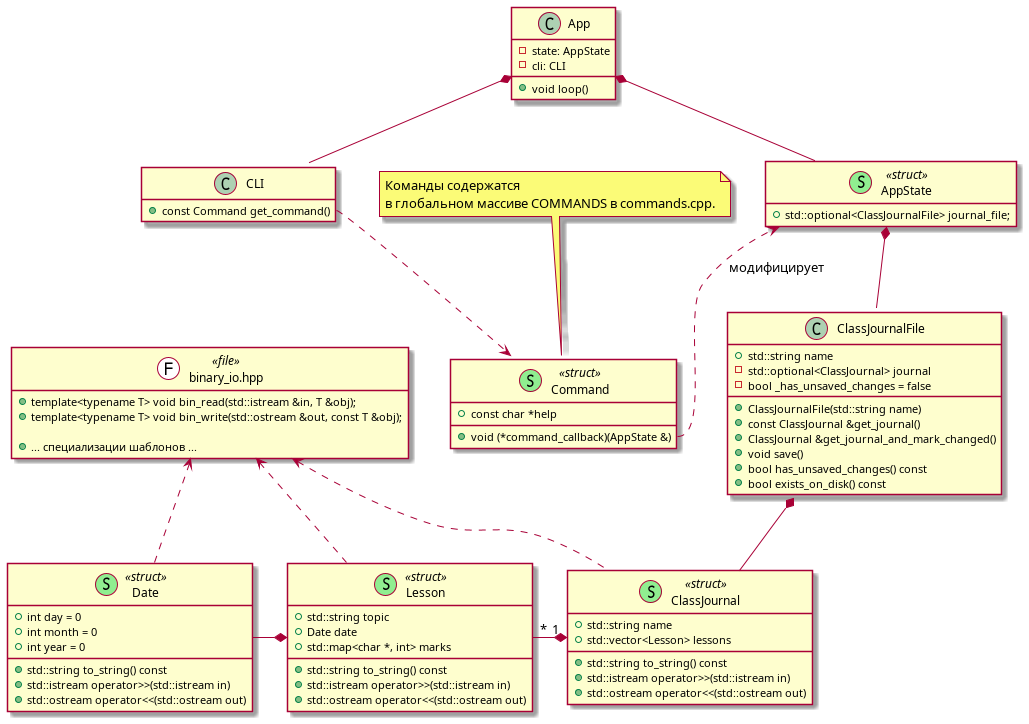
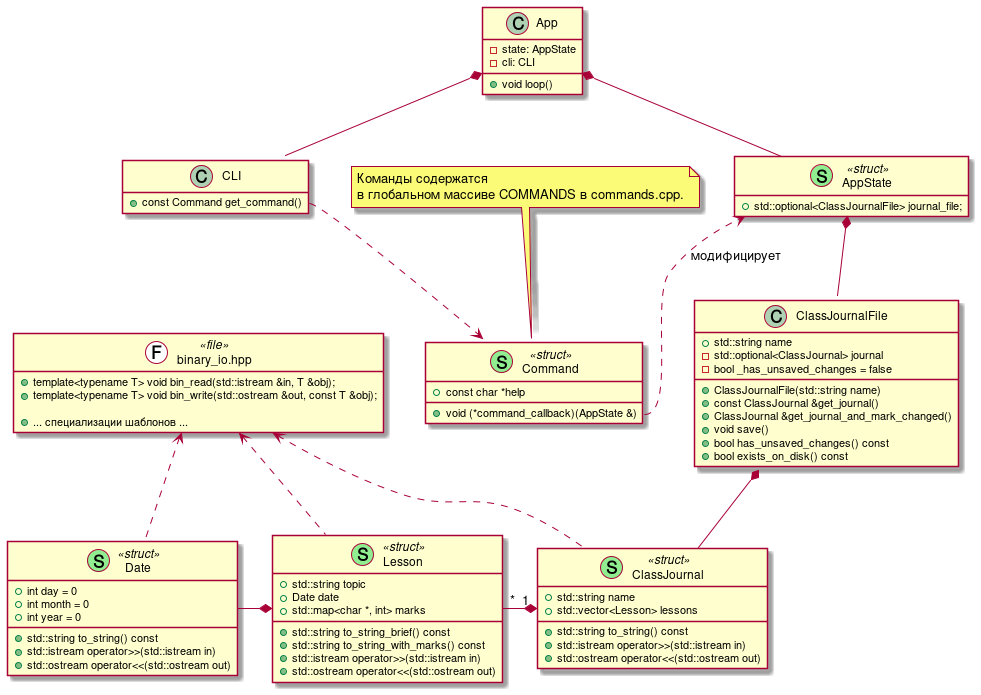
Очередной рывок реализации IOOverride/9

diff --git a/IOOverride/9/commands.cpp b/IOOverride/9/commands.cpp
@@ -7,6 +7,7 @@ using std::cin, std::cout, std::endl;
 using std::ifstream, std::ofstream;
 using std::string;
 using std::optional, std::make_optional;
+using std::out_of_range;
 
 /* #region Forward declarations */
 static string ask_filename();
@@ -14,6 +15,12 @@ static bool check_file_saved(optional<ClassJournalFile> &);
 /* #endregion */
 
 const string FILE_NOT_OPEN = "Файл не открыт.\n";
+
+#define RETURN_IF_JOURNAL_NOT_OPEN() \
+    if (!app.journal_file.has_value()) { \
+        cout << FILE_NOT_OPEN; \
+        return; \
+    }
 
 const std::map<string, Command> COMMANDS = {
     {
@@ -42,10 +49,7 @@ const std::map<string, Command> COMMANDS = {
         "fileinfo", {
             "Выводит информацию о файле текущего открытого журнала.",
             [] (AppState &app) {
-                if (!app.journal_file.has_value()) {
-                    cout << FILE_NOT_OPEN;
-                    return;
-                }
+                RETURN_IF_JOURNAL_NOT_OPEN()
                 cout << "Имя файла:\t\t" << app.journal_file->name << endl
                      << "Несохр. изменения:\t" << (app.journal_file->has_unsaved_changes() ? "Да" : "Нет") << endl;
             }
@@ -55,10 +59,7 @@ const std::map<string, Command> COMMANDS = {
         "save", {
             "Сохраняет журнал в файл.",
             [] (AppState &app) {
-                if (!app.journal_file.has_value()) {
-                    cout << FILE_NOT_OPEN;
-                    return;
-                }
+                RETURN_IF_JOURNAL_NOT_OPEN()
                 app.journal_file->save();
             }
         }
@@ -102,6 +103,47 @@ const std::map<string, Command> COMMANDS = {
             }
         }
     },
+    {
+        "journal print", {
+            "Печатает название журнала, названия и даты занятий.",
+            [] (AppState &app) {
+                RETURN_IF_JOURNAL_NOT_OPEN()
+                cout << app.journal_file->get_journal().to_string();
+            }
+        }
+    },
+    {
+        "lesson print", {
+            "Печатает название, тему занятия, а также оценки, выставленные на нем.",
+            [] (AppState &app) {
+                RETURN_IF_JOURNAL_NOT_OPEN()
+                while (true) {
+                    cout << "Номер занятия >> ";
+                    int lesson_id;
+                    cin >> lesson_id;
+                    try {
+                        cout << app.journal_file->get_journal().lessons[lesson_id + 1].to_string_with_marks() << endl;
+                        break;
+                    } catch(out_of_range) {
+                        cout << "Неверный номер занятия: " << lesson_id << endl;
+                    }
+                }
+            }
+        }
+    },
+    {
+        "lesson add", {
+            "Добваляет занятие.",
+            [] (AppState &app) {
+                RETURN_IF_JOURNAL_NOT_OPEN()
+
+                Lesson lesson;
+                cout << "Название занятия >> ";
+                getline(cin, lesson.topic);
+                
+            }
+        }
+    }
 };
 
 static string ask_filename() {

diff --git a/IOOverride/9/Lesson.cpp b/IOOverride/9/Lesson.cpp
@@ -1,15 +1,38 @@
 #include "Lesson.hpp"
 
-#include "binary_io.hpp"
+#include <sstream>
 
-std::istream &operator>>(std::istream &in, Lesson &lesson) {
+#include "binary_io.hpp"
+#include "printing.hpp"
+
+using std::istream, std::ostream;
+using std::string;
+using std::stringstream;
+using std::endl;
+
+string Lesson::to_string_brief() const {
+    stringstream ss;
+    ss << "Занятие " << date.to_string() << ": " << topic << endl;
+    return ss.str();
+}
+
+string Lesson::to_string_with_marks() const {
+    stringstream ss;
+    ss << to_string_brief() << endl << BAR << "\nОценки:\n";
+    for (auto &[student, mark] : marks) {
+        ss << student << " : " << mark << endl;
+    }
+    return ss.str();
+}
+
+istream &operator>>(istream &in, Lesson &lesson) {
     bin_read(in, lesson.topic);
     in >> lesson.date;
     bin_read(in, lesson.marks);
     return in;
 }
 
-std::ostream &operator<<(std::ostream &out, const Lesson &lesson) {
+ostream &operator<<(ostream &out, const Lesson &lesson) {
     bin_write(out, lesson.topic);
     out << lesson.date;
     bin_write(out, lesson.marks);

diff --git a/IOOverride/9/ClassJournal.cpp b/IOOverride/9/ClassJournal.cpp
@@ -1,14 +1,33 @@
 #include "ClassJournal.hpp"
 
-#include "binary_io.hpp"
+#include <sstream>
 
-std::istream &operator>>(std::istream &in, ClassJournal &journal) {
+#include "binary_io.hpp"
+#include "printing.hpp"
+
+using std::istream, std::ostream;
+using std::string;
+using std::stringstream;
+using std::endl;
+
+string ClassJournal::to_string() const {
+    stringstream ss;
+    ss << "Журнал \"" << name << "\"\n"
+       << BAR << endl;
+    for (size_t i = 0; i < lessons.size(); i++) {
+        ss << "№" << i + 1 << ": " << lessons[i].to_string_brief();
+    }
+    ss << BAR << endl;
+    return ss.str();
+}
+
+istream &operator>>(istream &in, ClassJournal &journal) {
     bin_read(in, journal.name);
     bin_read(in, journal.lessons);
     return in;
 }
 
-std::ostream &operator<<(std::ostream &out, const ClassJournal &journal) {
+ostream &operator<<(ostream &out, const ClassJournal &journal) {
     bin_write(out, journal.name);
     bin_write(out, journal.lessons);
     return out;

diff --git a/IOOverride/9/Date.cpp b/IOOverride/9/Date.cpp
@@ -2,12 +2,20 @@
 
 #include <iomanip>
 #include <sstream>
+#include <regex>
 
 #include "binary_io.hpp"
 
 using std::string;
 using std::stringstream;
 using std::setfill, std::setw;
+using std::regex;
+
+const regex DATE_REGEX("\\d{1,2}\\.\\d{1,2}\\.\\d{4}");
+
+Date Date::from_string() {
+    // TODO
+}
 
 string Date::to_string() const {
     stringstream ss;

diff --git a/IOOverride/9/Lesson.hpp b/IOOverride/9/Lesson.hpp
@@ -10,6 +10,9 @@ struct Lesson {
     std::string topic;
     Date date;
     std::map<std::string, int> marks;
+
+    std::string to_string_brief() const;
+    std::string to_string_with_marks() const;
 };
 
 std::istream &operator>>(std::istream &, Lesson &);

diff --git a/IOOverride/9/ClassJournal.hpp b/IOOverride/9/ClassJournal.hpp
@@ -9,6 +9,8 @@
 struct ClassJournal {
     std::string name;
     std::vector<Lesson> lessons;
+
+    std::string to_string() const;
 };
 
 std::istream &operator>>(std::istream &, ClassJournal &);

diff --git a/IOOverride/9/Date.hpp b/IOOverride/9/Date.hpp
@@ -5,6 +5,8 @@
 struct Date {
     int day = 0, month = 0, year = 0;
 
+    static Date from_string();
+
     std::string to_string() const;
 };
 

diff --git a/IOOverride/9/printing.hpp b/IOOverride/9/printing.hpp
@@ -1,0 +1,3 @@
+#pragma once
+
+#define BAR "-----------------------------------"
